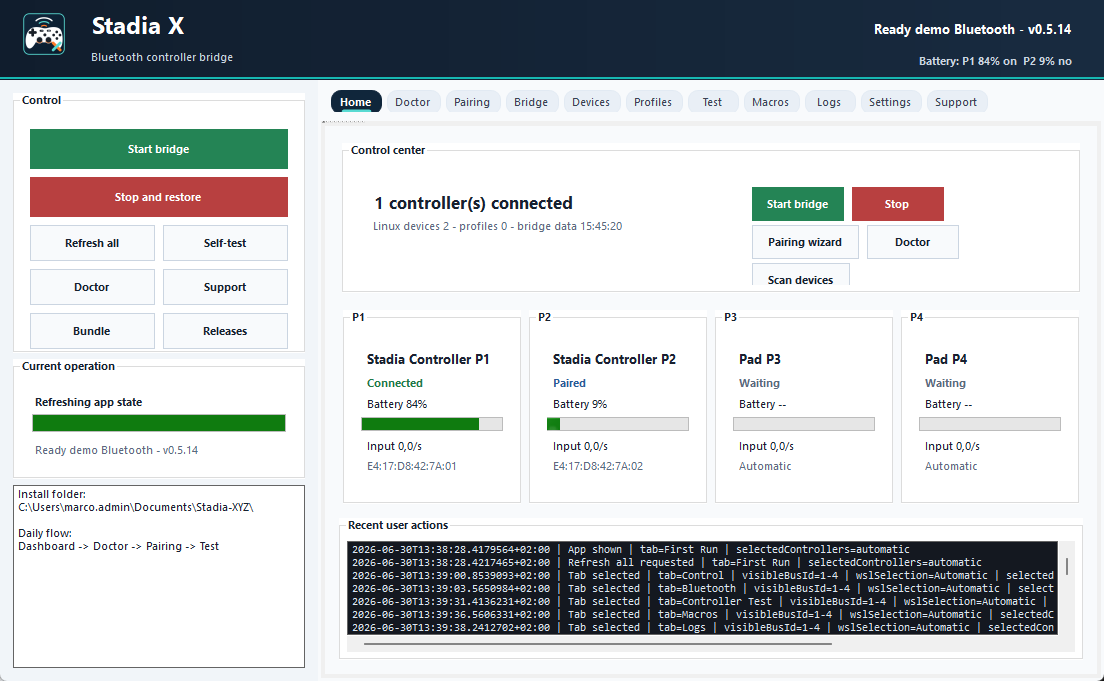
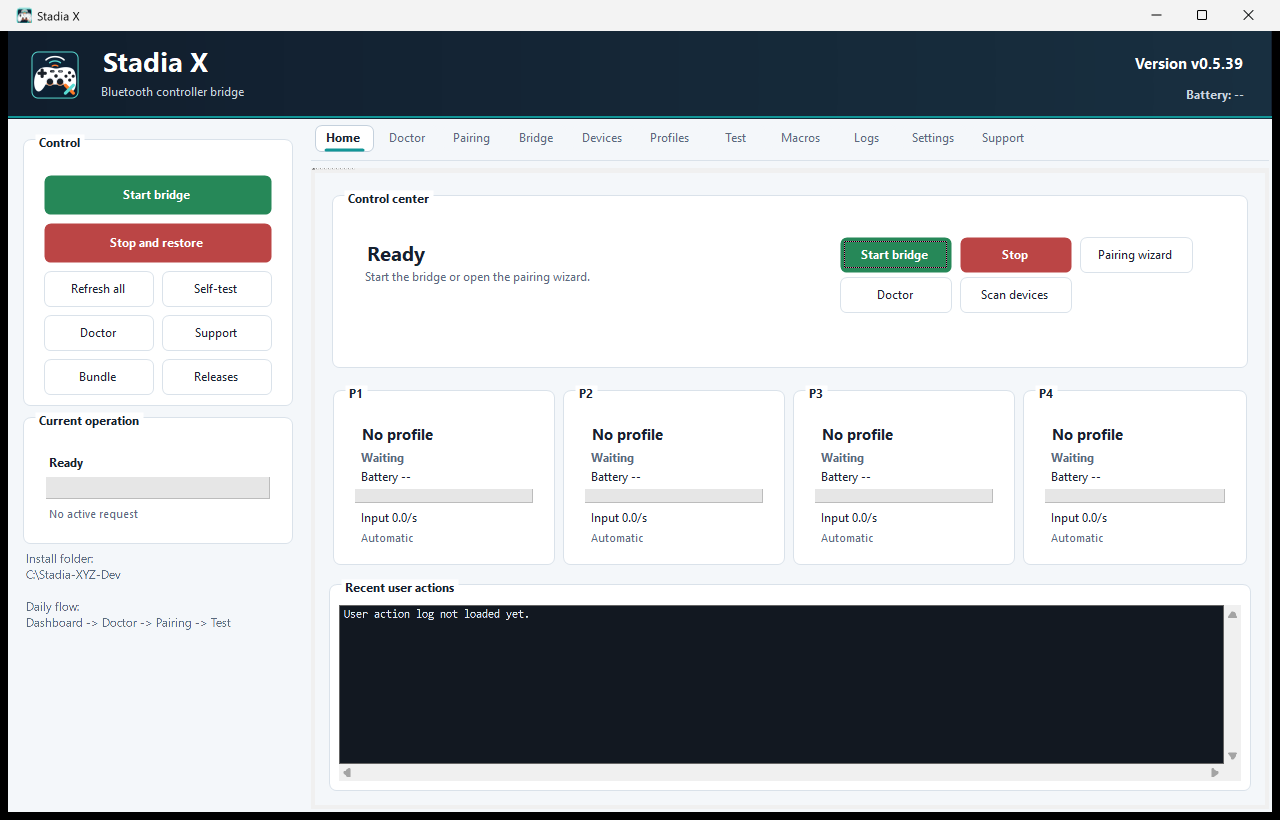
Capture and publish refreshed UI previews

diff --git a/src/StadiaX.ControlCenter/UiLayoutAudit.cs b/src/StadiaX.ControlCenter/UiLayoutAudit.cs
@@ -34,6 +34,10 @@ internal static class UiLayoutAudit
             {
                 var snapshotPath = SaveSnapshot(form, tabs, paths, density);
                 observations.Add($"snapshot={snapshotPath}");
+                if (density == "comfortable")
+                {
+                    observations.AddRange(SaveFeatureSnapshots(form, tabs, paths).Select(path => $"feature-snapshot={path}"));
+                }
             }
             catch (Exception ex)
             {
@@ -88,33 +92,61 @@ internal static class UiLayoutAudit
     {
         form.Size = SnapshotSize(density);
         tabs.SelectedIndex = 0;
+        return CaptureSnapshot(form, paths, $"ui-layout-audit-{density}.png");
+    }
+
+    private static IReadOnlyList<string> SaveFeatureSnapshots(Form form, TabControl tabs, AppPaths paths)
+    {
+        var targets = new[]
+        {
+            (Name: "Doctor", File: "ui-layout-audit-comfortable-doctor.png"),
+            (Name: "Bluetooth", File: "ui-layout-audit-comfortable-devices.png"),
+            (Name: "Windows Native", File: "ui-layout-audit-comfortable-controllers.png"),
+            (Name: "Controller Test", File: "ui-layout-audit-comfortable-test.png")
+        };
+        var pathsWritten = new List<string>();
+        foreach (var target in targets)
+        {
+            var page = tabs.TabPages.Cast<TabPage>().FirstOrDefault(candidate => candidate.Name == target.Name);
+            if (page is null)
+            {
+                continue;
+            }
+
+            tabs.SelectedTab = page;
+            pathsWritten.Add(CaptureSnapshot(form, paths, target.File));
+        }
+
+        tabs.SelectedIndex = 0;
+        return pathsWritten;
+    }
+
+    private static string CaptureSnapshot(Form form, AppPaths paths, string fileName)
+    {
         LayoutTree(form);
         Application.DoEvents();
 
-        var snapshotPath = Path.Combine(paths.LogDirectory, $"ui-layout-audit-{density}.png");
+        var snapshotPath = Path.Combine(paths.LogDirectory, fileName);
         Directory.CreateDirectory(paths.LogDirectory);
         form.Refresh();
         Application.DoEvents();
         using var bitmap = new Bitmap(Math.Max(1, form.Width), Math.Max(1, form.Height));
-        try
+        var captured = false;
+        using (var graphics = Graphics.FromImage(bitmap))
         {
-            form.DrawToBitmap(bitmap, new Rectangle(Point.Empty, form.Size));
-        }
-        catch (ArgumentException)
-        {
-            using var graphics = Graphics.FromImage(bitmap);
             var hdc = graphics.GetHdc();
             try
             {
-                if (!PrintWindow(form.Handle, hdc, PrintWindowRenderFullContent))
-                {
-                    throw new InvalidOperationException("Neither DrawToBitmap nor PrintWindow could capture the UI.");
-                }
+                captured = PrintWindow(form.Handle, hdc, PrintWindowRenderFullContent);
             }
             finally
             {
                 graphics.ReleaseHdc(hdc);
             }
+        }
+        if (!captured)
+        {
+            form.DrawToBitmap(bitmap, new Rectangle(Point.Empty, form.Size));
         }
         bitmap.Save(snapshotPath, System.Drawing.Imaging.ImageFormat.Png);
         return snapshotPath;